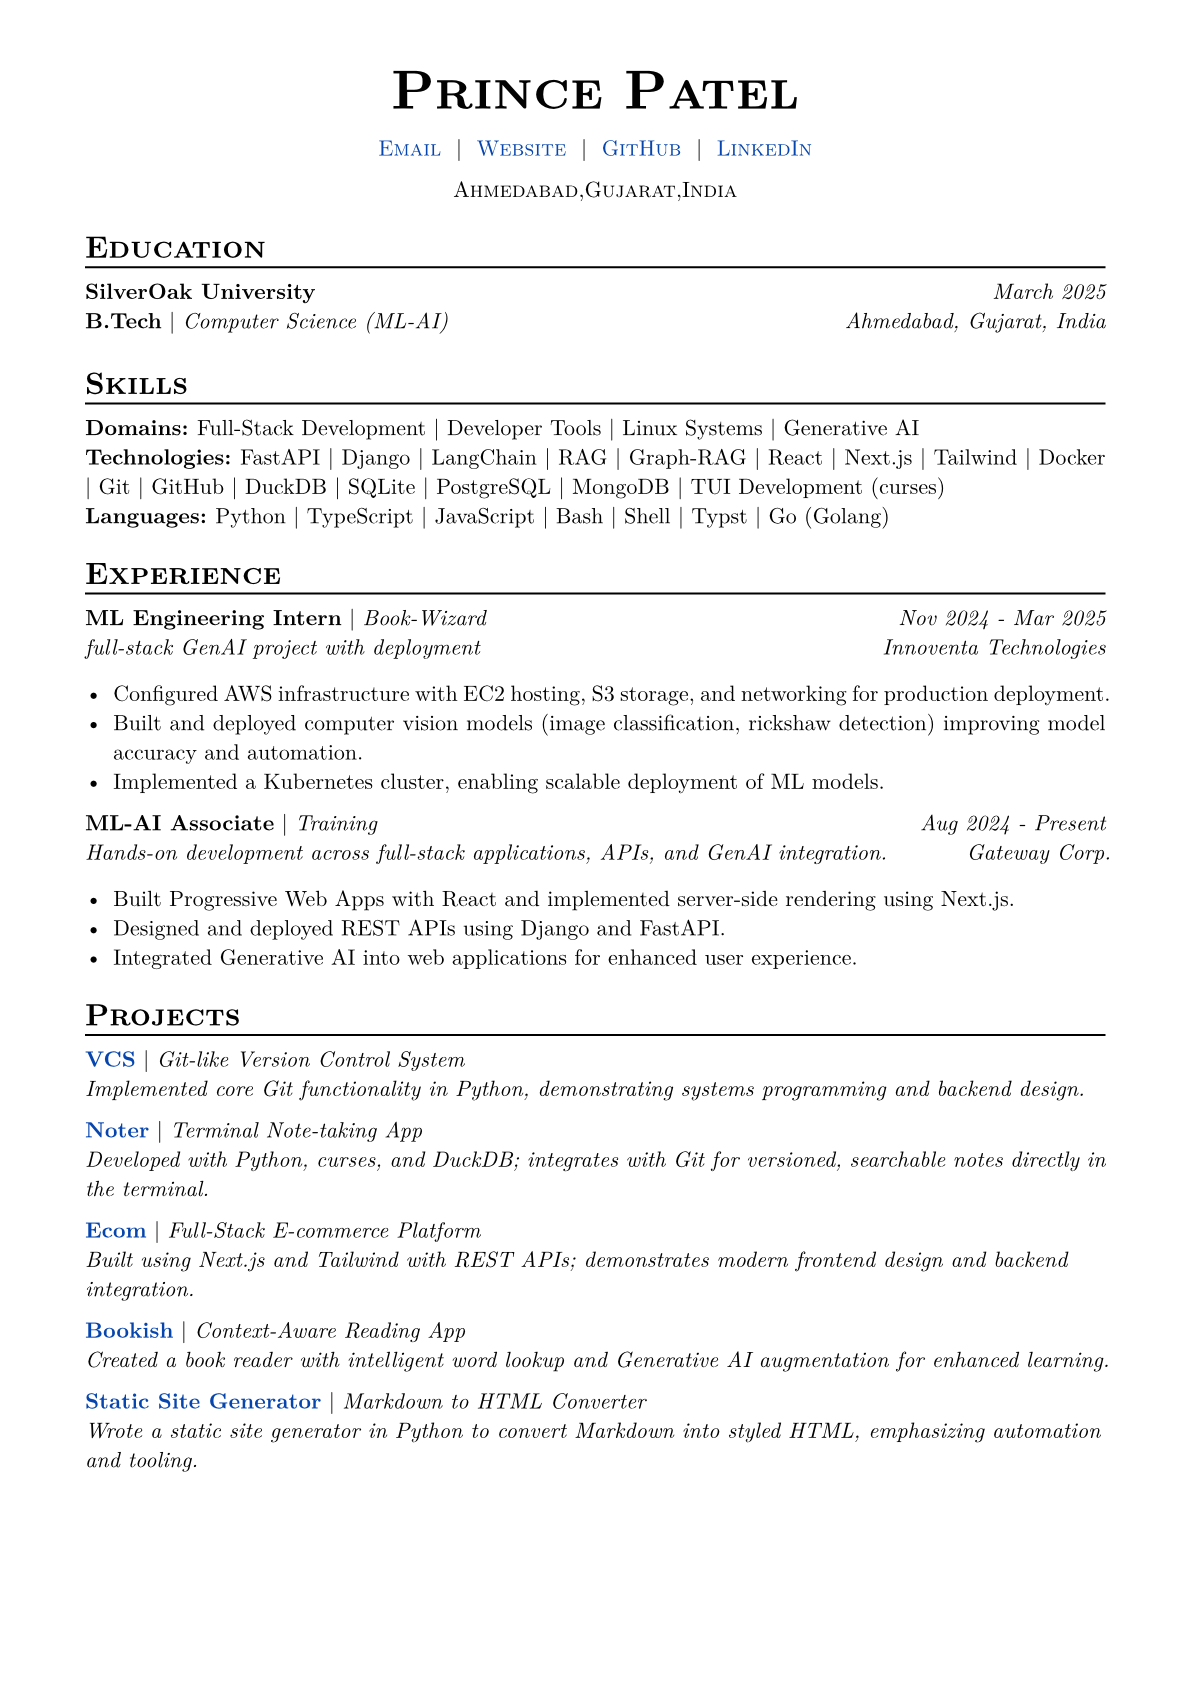
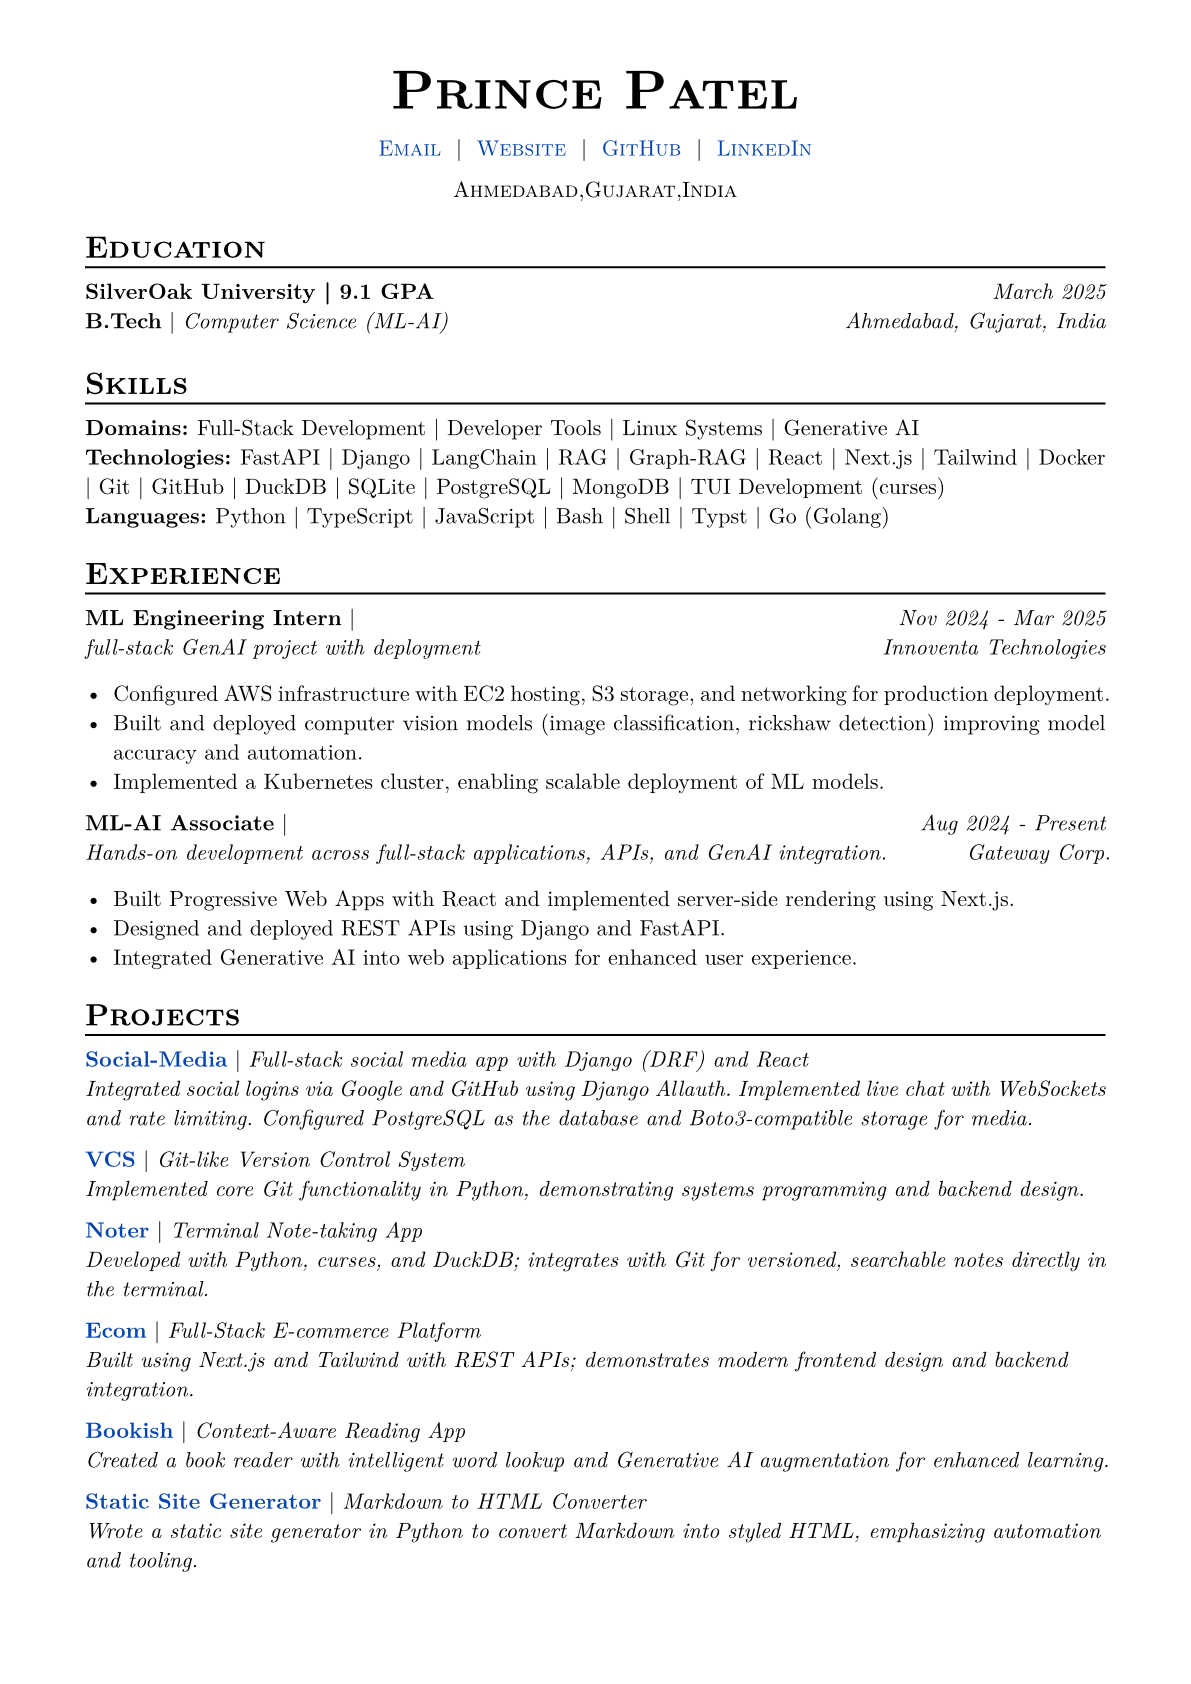
added social media project

diff --git a/README.md b/README.md
@@ -1,3 +1,5 @@
 # Resume
 
+[Link!](https://prince2412k2.github.io/Resume/resume.pdf)
+
 ![Resume](docs/resume.png)
